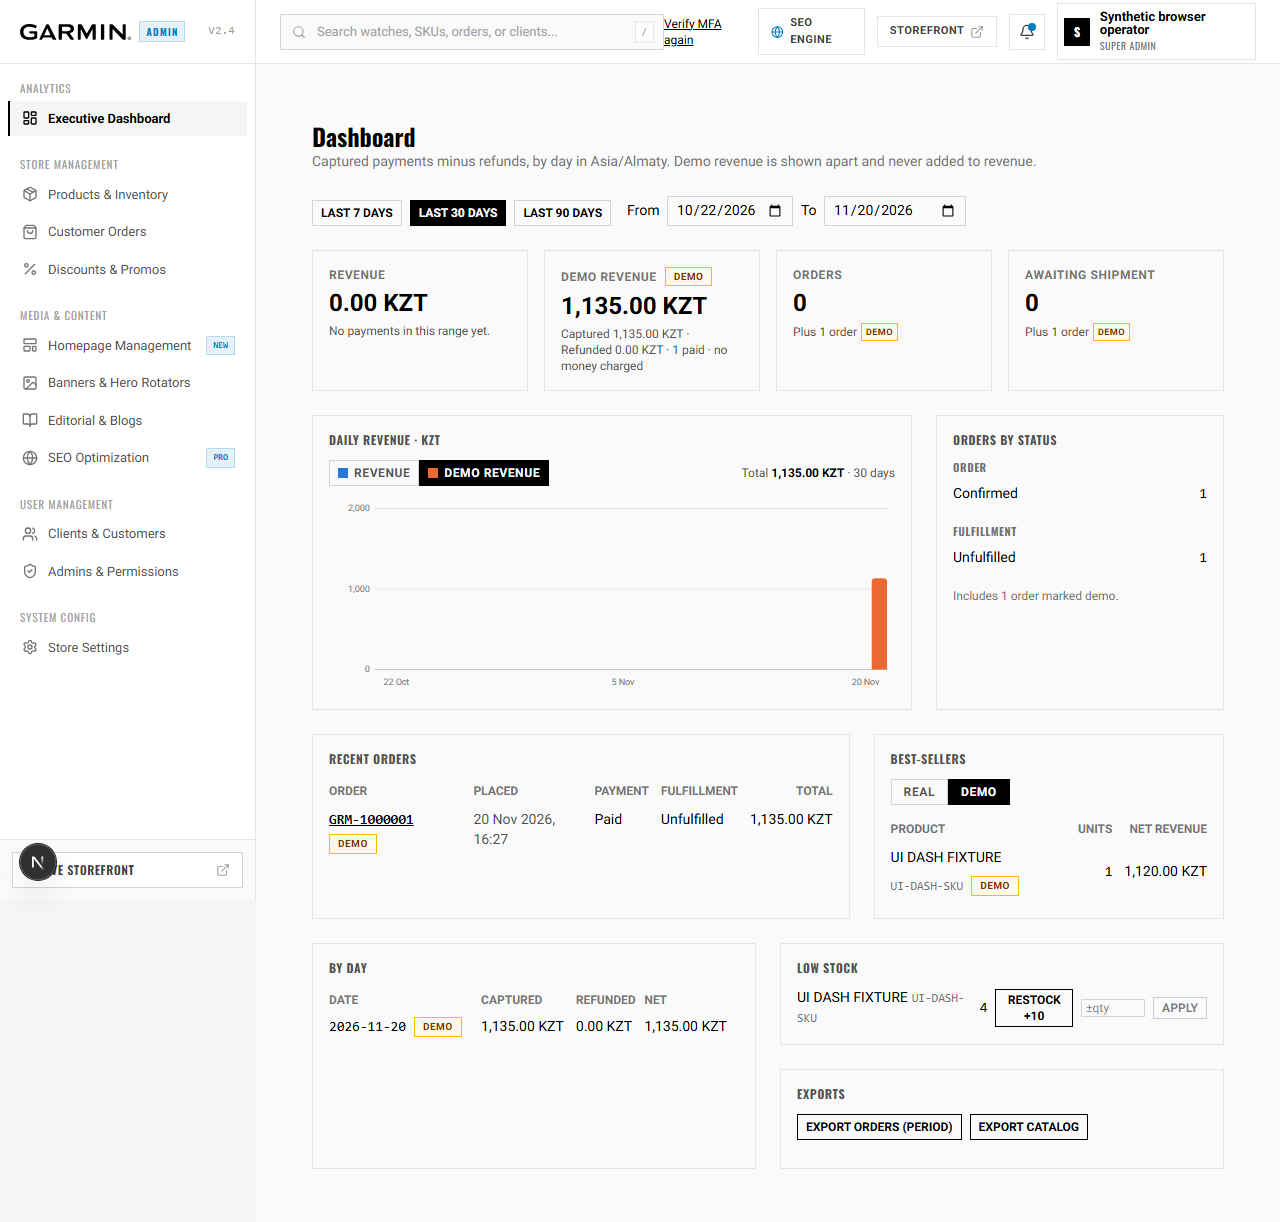
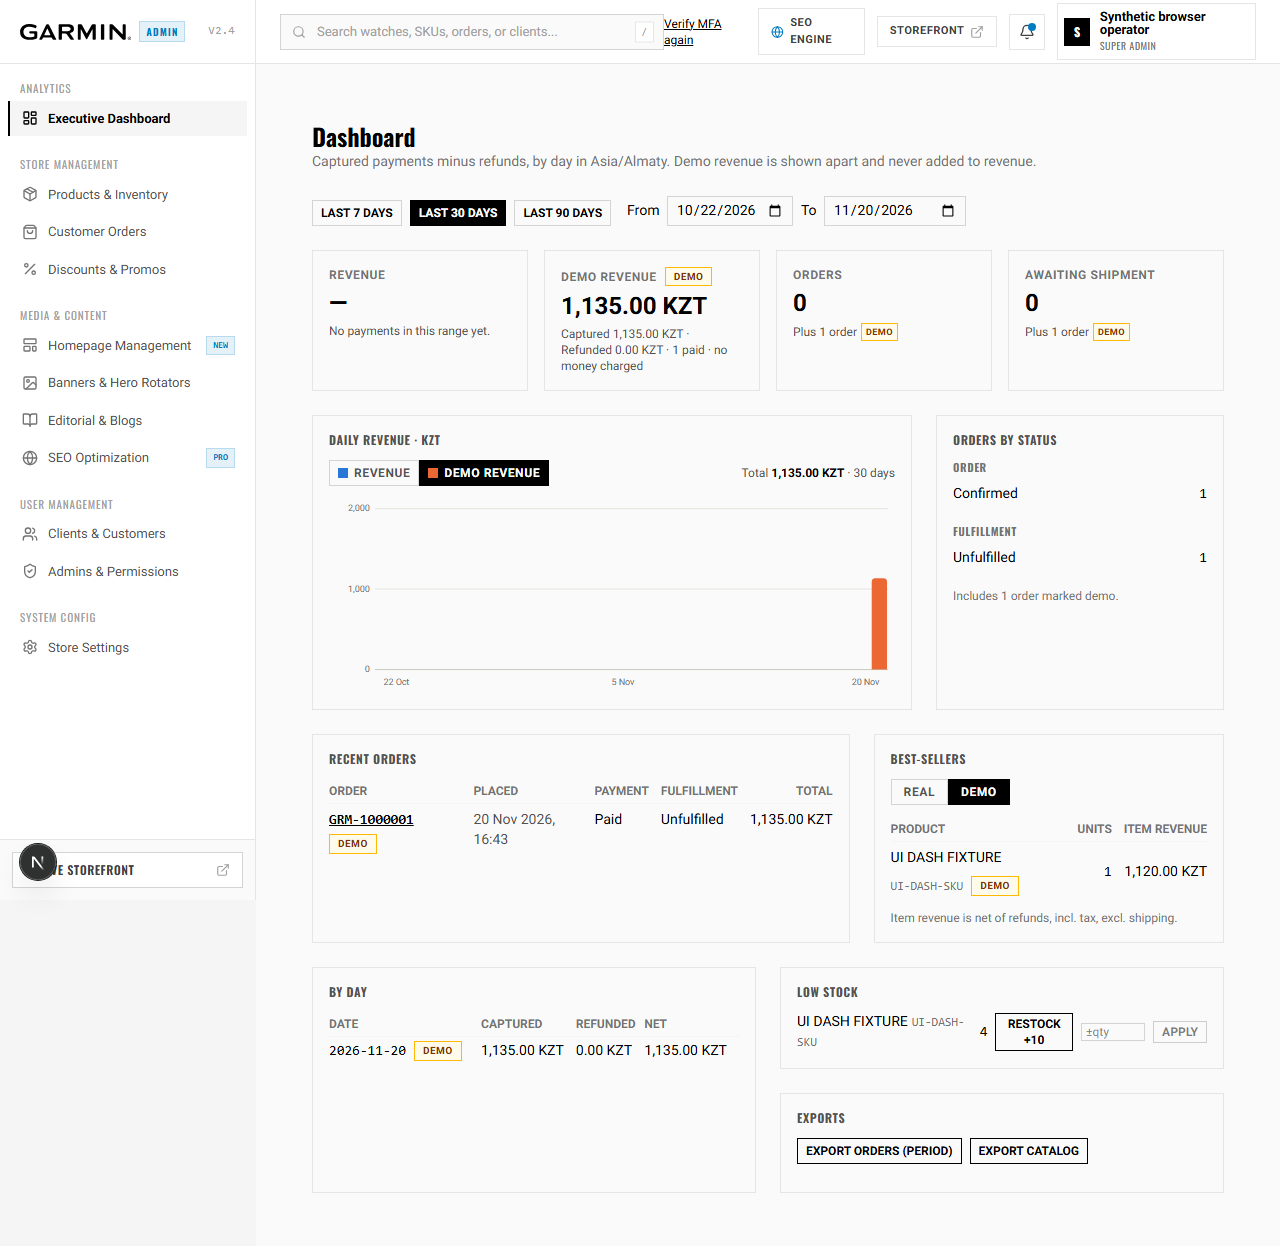
fix(admin): dashboard review round 1: stale ranges, screenshot path, clearer empty money (4.2)
- A request gate per load: a range change aborts the previous fetches,
  drops late responses and resets sections to loading, so an older range
  never lands under newer dates (unit test plus a smoke race check).
- The smoke writes dashboard.png to the receipt; CMS_SMOKE_SAVE_SHOTS=1
  copies it to docs/design-references. CMS_SMOKE_DASHBOARD_SHOT is gone.
- The orders page keeps a linked order's detail error apart from the list.
- Best-sellers column is "Item revenue" (incl. tax, excl. shipping); no
  payments shows "—" with the note; formatMinor shows malformed amounts
  raw instead of throwing; awaitingShipment rules documented.

diff --git a/src/app/admin/_components/ReportsScreen.tsx b/src/app/admin/_components/ReportsScreen.tsx
@@ -4,7 +4,7 @@ import { useCallback, useEffect, useMemo, useState, type ReactNode } from "react
 import Link from "next/link";
 import { createPendingActions, createStockAdjuster } from "@/lib/admin/inventory-client";
 import {
-  FULFILLMENT_STATUS_LABELS, ORDER_STATUS_LABELS, currenciesOf, dailyRevenue, formatMinor, splitTotals, statusRows,
+  FULFILLMENT_STATUS_LABELS, ORDER_STATUS_LABELS, createRequestGate, currenciesOf, dailyRevenue, formatMinor, splitTotals, statusRows,
   type CurrencyTotal, type DayTotal, type MoneyLine,
 } from "@/lib/admin/dashboard";
 import { DemoBadge } from "@/components/DemoBadge";
@@ -69,7 +69,8 @@ function Tile({ name, title, demo, children, foot }: { name: string; title: stri
 }
 function MoneyTile({ name, title, lines, value, demo }: { name: string; title: string; lines: MoneyLine[]; value: Loadable<unknown>; demo?: boolean }) {
   if (value.state !== "ready") return <Tile name={name} title={title} demo={demo}>{value.state === "loading" ? <Loading /> : <Failure message={value.message} />}</Tile>;
-  if (lines.length === 0) return <Tile name={name} title={title} demo={demo} foot={demo ? "No demo payments in this range yet." : "No payments in this range yet."}>{formatMinor("0", "KZT")}</Tile>;
+  // No payments: "—" and a plain note, never a zero posing as data.
+  if (lines.length === 0) return <Tile name={name} title={title} demo={demo} foot={demo ? "No demo payments in this range yet." : "No payments in this range yet."}>—</Tile>;
   return (
     <Tile name={name} title={title} demo={demo} foot={lines.map(line => (
       <p key={line.currency}>Captured {formatMinor(line.capturedMinor, line.currency)} · Refunded {formatMinor(line.refundedMinor, line.currency)} · {line.ordersPaid} paid{demo ? " · no money charged" : ""}</p>
@@ -104,14 +105,22 @@ export function ReportsScreen() {
   const pending = useMemo(() => createPendingActions(createStockAdjuster()), []);
   const [adjust, setAdjust] = useState<Record<string, string>>({});
 
-  const load = useCallback(async () => {
+  // Fix round 1: one request generation at a time. A new load aborts the previous one, and a response
+  // from a superseded load is dropped, so an older range's data never lands under newer dates.
+  const gate = useMemo(() => createRequestGate(), []);
+  /** `reset` (a range change) puts every section back to loading; a reload after an action keeps the frame. */
+  const load = useCallback(async (reset = false) => {
+    const ticket = gate.begin();
     setError(null);
+    if (reset) { setSummary(LOADING); setCounts(LOADING); setRecent(LOADING); setBest(LOADING); setStock(LOADING); }
     const range = `from=${from}&to=${to}&timeZone=${encodeURIComponent(ZONE)}`;
-    const get = <T,>(query: string) => fetch(`/api/admin/reports?${query}`, { cache: "no-store" }).then(response => json<T>(response));
-    // Each section settles on its own; a failure shows that section's message, never zeros. The
-    // previous data stays on screen until the new response arrives.
+    const get = <T,>(query: string) => fetch(`/api/admin/reports?${query}`, { cache: "no-store", signal: ticket.signal }).then(response => json<T>(response));
+    // Each section settles on its own; a failure shows that section's message, never zeros.
     const settle = <T,>(promise: Promise<T>, set: (value: Loadable<T>) => void) =>
-      promise.then(data => set({ state: "ready", data }), (reason: unknown) => set({ state: "error", message: reason instanceof Error ? reason.message : String(reason) }));
+      promise.then(
+        data => { if (ticket.isCurrent()) set({ state: "ready", data }); },
+        (reason: unknown) => { if (ticket.isCurrent()) set({ state: "error", message: reason instanceof Error ? reason.message : String(reason) }); },
+      );
     fetch("/api/admin/exports", { cache: "no-store" }).then(r => json<{ items: ExportJob[] }>(r)).then(data => setExports(data.items)).catch(() => setExports(null));
     await Promise.all([
       settle(get<Summary>(`view=summary&${range}`), setSummary),
@@ -120,8 +129,8 @@ export function ReportsScreen() {
       settle(get<BestSellers>(`view=best_sellers&${range}&limit=8`), setBest),
       settle(get<{ items: LowStock[] }>("view=low_stock&limit=8").then(data => data.items), setStock),
     ]);
-  }, [from, to]);
-  useEffect(() => { void load(); }, [load]);
+  }, [from, to, gate]);
+  useEffect(() => { void load(true); return () => gate.abort(); }, [load, gate]);
 
   const split = summary.state === "ready" ? splitTotals(summary.data.totals) : { real: [], demo: [], sandbox: [] };
   const chartCurrency = summary.state === "ready" ? currenciesOf(summary.data.totals, summary.data.days)[0] ?? "KZT" : "KZT";
@@ -229,7 +238,7 @@ export function ReportsScreen() {
             <Section value={best} empty={data => data[bestTab].length === 0} emptyText={bestTab === "real" ? "No sales in this date range yet." : "No demo sales in this date range yet."}>
               {data => (
                 <table className="w-full text-sm">
-                  <thead><tr className="text-left text-xs uppercase text-neutral-500"><th className="py-1 font-bold">Product</th><th className="px-3 text-right font-bold">Units</th><th className="whitespace-nowrap text-right font-bold">Net revenue</th></tr></thead>
+                  <thead><tr className="text-left text-xs uppercase text-neutral-500"><th className="py-1 font-bold">Product</th><th className="px-3 text-right font-bold">Units</th><th className="whitespace-nowrap text-right font-bold">Item revenue</th></tr></thead>
                   <tbody>{data[bestTab].map(item => (
                     <tr key={item.variantId + item.currency} className="border-t border-neutral-100">
                       <td className="py-1.5"><span className="flex flex-wrap items-center gap-2">{item.name}{item.sku && <span className="font-mono text-xs text-neutral-500">{item.sku}</span>}{bestTab === "demo" && <DemoBadge label="DEMO" className="text-[10px]" />}</span></td>
@@ -240,6 +249,7 @@ export function ReportsScreen() {
                 </table>
               )}
             </Section>
+            <p className="mt-2 text-xs text-neutral-500">Item revenue is net of refunds, incl. tax, excl. shipping.</p>
           </div>
         </Card>
       </div>

diff --git a/src/app/admin/orders/_components/FulfillmentScreen.tsx b/src/app/admin/orders/_components/FulfillmentScreen.tsx
@@ -45,6 +45,7 @@ export default function FulfillmentScreen() {
   const [selected, setSelected] = useState<string | null>(null);
   const [detail, setDetail] = useState<AdminOrderDetailDTO | null>(null);
   const [error, setError] = useState<string | null>(null);
+  const [detailError, setDetailError] = useState<string | null>(null);
   const [busy, setBusy] = useState(false);
   const [quantities, setQuantities] = useState<Record<string, string>>({});
   const [carrier, setCarrier] = useState("");
@@ -66,9 +67,12 @@ export default function FulfillmentScreen() {
     if (!response.ok) { setError(await readError(response)); setOrders([]); return; }
     setOrders((await response.json() as { items: AdminOrderSummaryDTO[] }).items);
   }, [status, mode]);
+  // Fix round 1: the detail's own error (e.g. a linked order that does not exist) lives apart from the
+  // list error, so loadOrders clearing its error never hides why the detail did not open.
   const loadDetail = useCallback(async (id: string) => {
     const response = await fetch(`/api/admin/orders?id=${id}`, { cache: "no-store" });
-    if (!response.ok) { setError(await readError(response)); return; }
+    if (!response.ok) { setDetail(null); setDetailError(await readError(response)); return; }
+    setDetailError(null);
     const next = await response.json() as AdminOrderDetailDTO;
     setDetail(next);
     setQuantities({});
@@ -84,7 +88,7 @@ export default function FulfillmentScreen() {
     if (linked && /^[0-9a-f-]{36}$/i.test(linked)) setSelected(linked);
   }, []);
   useEffect(() => { void loadOrders(); }, [loadOrders]);
-  useEffect(() => { if (selected) void loadDetail(selected); else setDetail(null); }, [selected, loadDetail]);
+  useEffect(() => { if (selected) void loadDetail(selected); else { setDetail(null); setDetailError(null); } }, [selected, loadDetail]);
 
   // The manual payment actions are keyed by their reference instead of an idempotency key.
   async function post(body: Record<string, unknown>, keyed = true) {
@@ -170,7 +174,8 @@ export default function FulfillmentScreen() {
           )}
         </section>
         <section aria-label="Order detail" className="border border-neutral-200 p-4">
-          {!detail ? <p className="text-sm text-neutral-500">Select an order.</p> : (
+          {detailError && <p role="alert" className="mb-3 border border-red-200 bg-red-50 p-3 text-sm text-red-800">{detailError}</p>}
+          {!detail ? (detailError ? null : <p className="text-sm text-neutral-500">Select an order.</p>) : (
             <div className="space-y-5">
               <div className="flex flex-wrap items-center gap-2">
                 <h2 className="font-mono text-lg font-bold">{detail.orderNumber}</h2>

diff --git a/src/lib/admin/dashboard.ts b/src/lib/admin/dashboard.ts
@@ -32,13 +32,36 @@ export function splitTotals(totals: CurrencyTotal[]): SplitTotals {
   return { real: sumLines(groups.real), demo: sumLines(groups.demo), sandbox: sumLines(groups.sandbox) };
 }
 
-/** "123456789012345678" KZT minor units to "1,234,567,890,123,456.78 KZT"; negative nets keep their sign. BigInt-safe. */
+/**
+ * "123456789012345678" KZT minor units to "1,234,567,890,123,456.78 KZT"; negative nets keep their sign. BigInt-safe.
+ * A malformed amount is shown as it came ("1.5 KZT") rather than throwing during render.
+ */
 export function formatMinor(minor: string, currency: string, locale = "en-US"): string {
-  if (!MINOR.test(minor)) throw new RangeError("Invalid minor amount");
+  if (typeof minor !== "string" || !MINOR.test(minor)) return `${String(minor)} ${currency}`;
   const negative = minor.startsWith("-");
   const [whole, cents] = minorToMajor(negative ? minor.slice(1) : minor).split(".");
   const parts = new Intl.NumberFormat(locale, { minimumFractionDigits: 2, maximumFractionDigits: 2 }).formatToParts(BigInt(whole));
   return (negative ? "-" : "") + parts.map(part => part.type === "fraction" ? cents : part.value).join("") + " " + currency;
+}
+
+/**
+ * Fix round 1: one request generation at a time. `begin()` aborts the previous generation's fetches
+ * and returns its signal plus `isCurrent()`, which is false once a newer generation has begun, so a
+ * late response from an older date range is dropped instead of landing under newer dates.
+ */
+export function createRequestGate() {
+  let generation = 0;
+  let controller: AbortController | null = null;
+  return {
+    begin(): { signal: AbortSignal; isCurrent: () => boolean } {
+      controller?.abort();
+      controller = new AbortController();
+      const mine = ++generation;
+      return { signal: controller.signal, isCurrent: () => mine === generation };
+    },
+    /** Aborts the current generation (unmount); its responses are dropped too. */
+    abort() { controller?.abort(); controller = null; generation++; },
+  };
 }
 
 /** Minor units to a plain number of major units, for chart geometry only (never for displayed amounts). */

diff --git a/src/server/reports/service.ts b/src/server/reports/service.ts
@@ -33,7 +33,13 @@ export type ReportEnvironment = "sandbox" | "live" | "demo";
 export interface CurrencyTotalDTO { currency: string; environment: ReportEnvironment; capturedMinor: string; refundedMinor: string; netMinor: string; ordersPaid: number }
 export interface DayTotalDTO { date: string; currency: string; environment: ReportEnvironment; capturedMinor: string; refundedMinor: string; netMinor: string }
 export interface SummaryDTO { from: string; to: string; timeZone: string; totals: CurrencyTotalDTO[]; days: DayTotalDTO[] }
-/** Task 4.2: awaitingShipment counts paid, confirmed orders not yet fully shipped, real and demo apart. */
+/**
+ * Task 4.2: awaitingShipment counts orders shown in the window that staff should still ship, real and
+ * demo apart: order_status 'confirmed', payment_status 'paid' or 'partially_refunded', and
+ * fulfillment_status 'unfulfilled', 'processing' or 'partially_shipped' (not yet shipped in full).
+ * Excluded: cancel_requested (and every other non-confirmed order status), unpaid or fully refunded
+ * orders, fulfillment 'exception' orders (they must not ship), and shipped or delivered orders.
+ */
 export interface StatusCountsDTO { orderStatus: Record<string, number>; fulfillmentStatus: Record<string, number>; demo: number; real: number; awaitingShipment: { real: number; demo: number } }
 export interface RecentOrderDTO { id: string; number: string; createdAt: string; totalMinor: string; currency: string; paymentStatus: string; fulfillmentStatus: string; demo: boolean }
 /** A best-selling variant in one currency. units and revenueMinor are net of refunds (refunded line quantities and amounts). */
